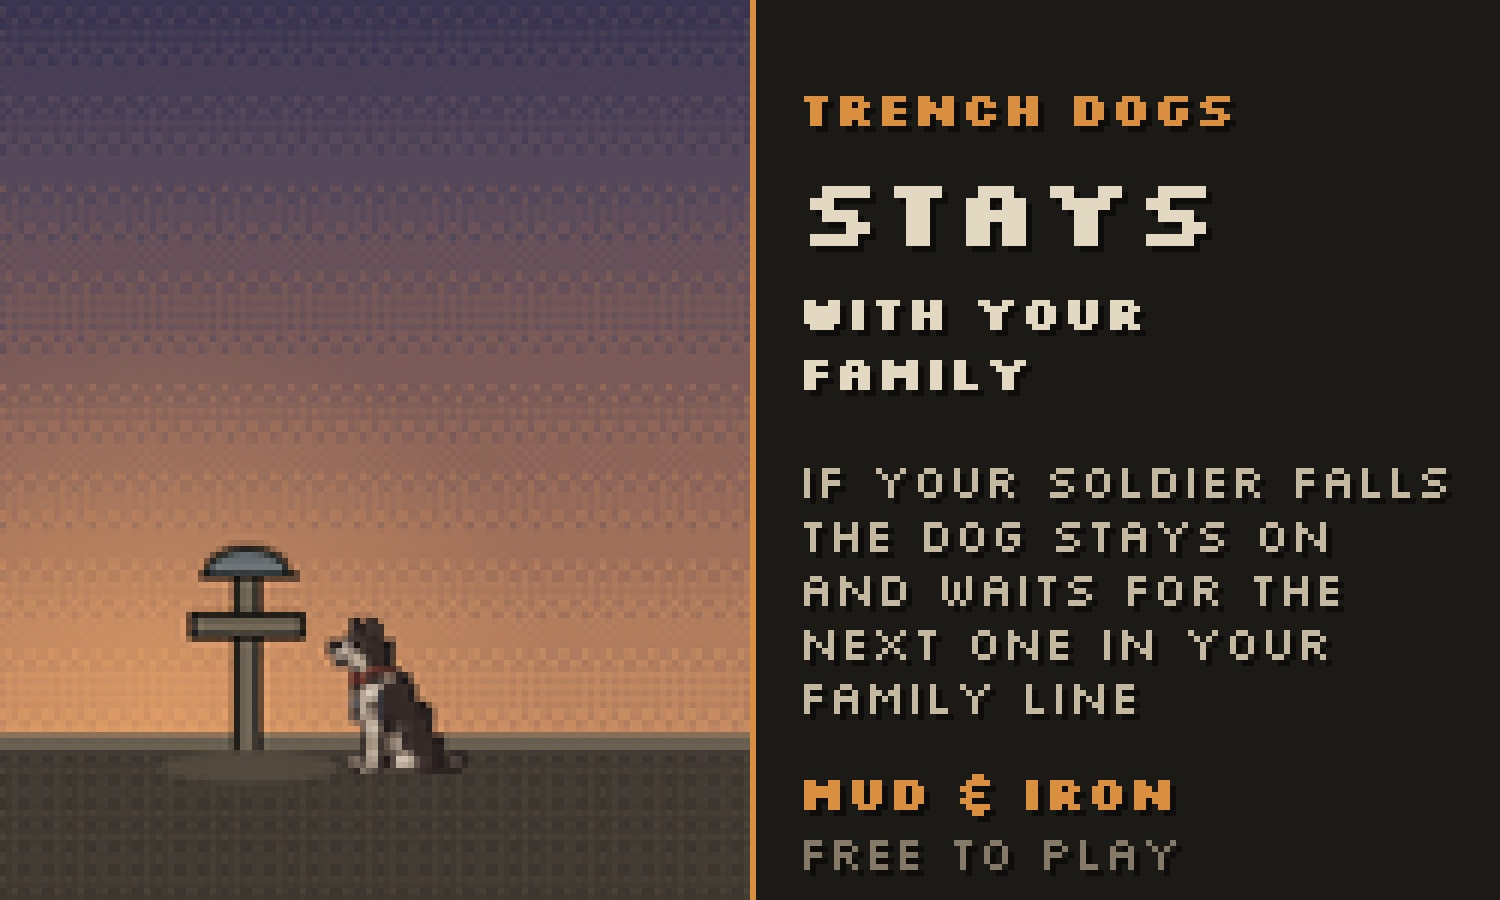
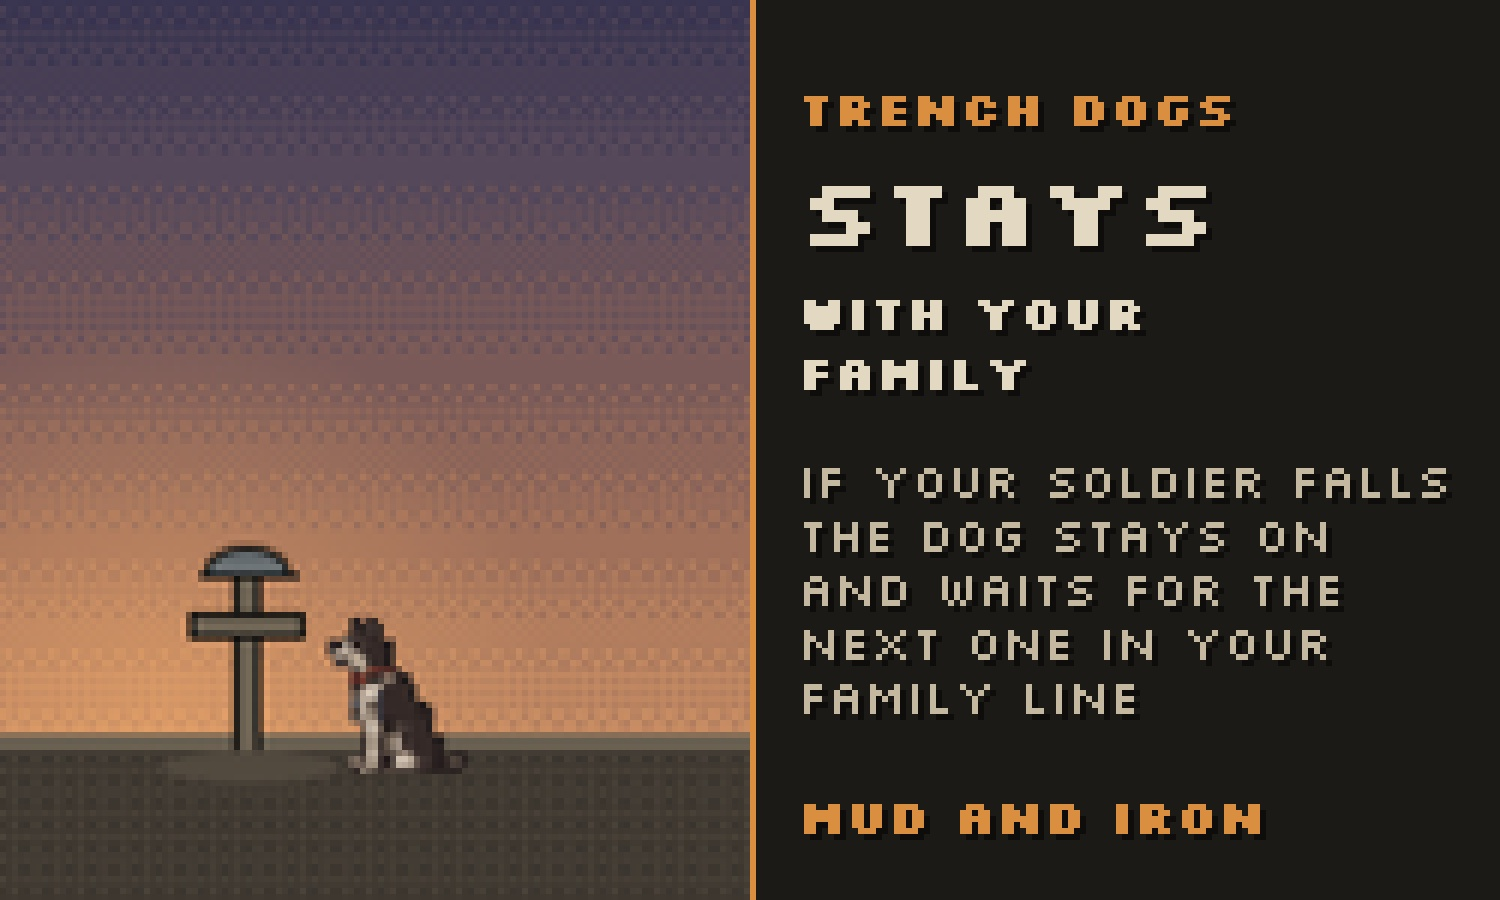
Patreon obrázky: bez „free to play“, MUD AND IRON místo &
Claude-Session: https://claude.ai/code/session_01FWoRCTpAmETsDNoNBNsz1y

Changed region(s): [[0.5213, 0.84, 0.8587, 0.9644]]

diff --git a/marketing/make_patreon_thumb.py b/marketing/make_patreon_thumb.py
@@ -31,8 +31,8 @@ for i, s in enumerate(title.split("|")[:2]):
     text(X, 46 + i * 10, s, font(8, True), P["white"])
 for i, s in enumerate(lines.split("|")[:5]):
     text(X, 74 + i * 9, s, font(8), P["pale"])
-text(X, 126, "MUD & IRON", font(8, True), P["gold"])
-text(X, 136, "FREE TO PLAY", font(8), P["sand"])
+# bez „&“ (v pixelovém písmu vypadá jako dolar) a bez „free to play“ (uživatel 21. 11.)
+text(X, 130, "MUD AND IRON", font(8, True), P["gold"])
 out = os.path.join(HERE, "promo", "patreon", f"post_{out_id}_1500x900.jpg")
 up(im, K).save(out, quality=95)
 print(out)

diff --git a/marketing/make_patreon_dog.py b/marketing/make_patreon_dog.py
@@ -44,7 +44,7 @@ def post_tiers():
     text_c(d, SW // 2, 39, "SUPPLY LINE", font(8, True), P["gold"])
     d.line((SW, 0, SW, H), fill=P["gold"])
     X0 = SW + 8
-    d.text((X0, 10), "SUPPORT MUD & IRON", font=font(8, True), fill=P["white"])
+    d.text((X0, 10), "SUPPORT MUD AND IRON", font=font(8, True), fill=P["white"])
     d.text((X0, 20), "ON PATREON", font=font(8, True), fill=P["gold"])
     rows = [("$4", "WAR BONDS", "RIBBON FOR YOUR SOLDIER"),
             ("$6", "FIELD POST", "+ A TRENCH DOG"),
